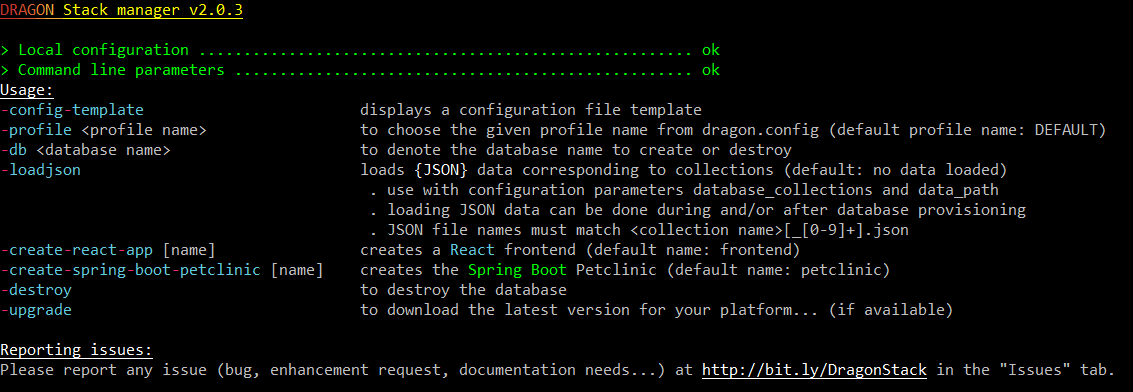
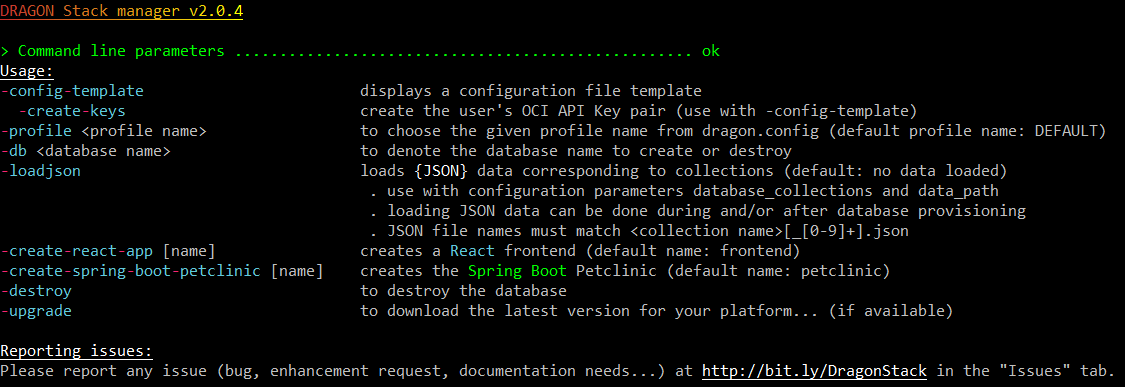
version 2.0.4

diff --git a/src/main/java/com/oracle/dragon/util/KeysUtil.java b/src/main/java/com/oracle/dragon/util/KeysUtil.java
@@ -1,27 +1,29 @@
 package com.oracle.dragon.util;
 
 import com.oracle.dragon.model.Keys;
+import com.oracle.svm.core.annotate.AutomaticFeature;
 import org.bouncycastle.jce.provider.BouncyCastleProvider;
 import org.bouncycastle.openssl.jcajce.JcaPEMWriter;
 import org.bouncycastle.openssl.jcajce.JcePEMEncryptorBuilder;
+import org.graalvm.nativeimage.hosted.Feature;
+import org.graalvm.nativeimage.hosted.RuntimeClassInitialization;
 
-import javax.crypto.*;
-import javax.crypto.spec.PBEKeySpec;
-import javax.crypto.spec.PBEParameterSpec;
 import java.io.*;
 import java.nio.charset.StandardCharsets;
 import java.security.*;
-import java.security.spec.InvalidKeySpecException;
-import java.security.spec.InvalidParameterSpecException;
 import java.security.spec.RSAKeyGenParameterSpec;
 import java.util.Base64;
-import java.util.Random;
 
-public final class KeysUtil {
-    public static Keys createKeys(final String passPhrase) throws Exception {
+@AutomaticFeature
+public final class KeysUtil implements Feature {
+    @Override
+    public void afterRegistration(AfterRegistrationAccess access) {
+        RuntimeClassInitialization.initializeAtBuildTime("org.bouncycastle");
         // see https://www.bouncycastle.org/fips-java/BCFipsIn100.pdf
         Security.addProvider(new BouncyCastleProvider());
+    }
 
+    public Keys createKeys(final String passPhrase) throws Exception {
         final KeyPairGenerator kpg = KeyPairGenerator.getInstance("RSA", "BC");
         kpg.initialize(new RSAKeyGenParameterSpec(2048, RSAKeyGenParameterSpec.F4));
         final KeyPair kp = kpg.generateKeyPair();
@@ -94,37 +96,4 @@ public final class KeysUtil {
 
         return s.toString();
     }
-
-    private static byte[] encryptWithPassPhrase(byte[] encodedprivkey, String passPhrase) throws NoSuchAlgorithmException, InvalidKeySpecException, NoSuchPaddingException, InvalidAlgorithmParameterException, InvalidKeyException, BadPaddingException, IllegalBlockSizeException, InvalidParameterSpecException, IOException {
-        // We must use a PasswordBasedEncryption algorithm in order to encrypt the private key, you may use any common algorithm supported by openssl, you can check them in the openssl documentation http://www.openssl.org/docs/apps/pkcs8.html
-        String MYPBEALG = "PBEWithSHA1AndDESede";
-
-        final int count = 10000 + new Random().nextInt(1000);// hash iteration count
-        final SecureRandom random = new SecureRandom();
-        final byte[] salt = new byte[8];
-        random.nextBytes(salt);
-
-        // Create PBE parameter set
-        final PBEParameterSpec pbeParamSpec = new PBEParameterSpec(salt, count);
-        final PBEKeySpec pbeKeySpec = new PBEKeySpec(passPhrase.toCharArray());
-        final SecretKeyFactory keyFac = SecretKeyFactory.getInstance(MYPBEALG);
-        final SecretKey pbeKey = keyFac.generateSecret(pbeKeySpec);
-
-        final Cipher pbeCipher = Cipher.getInstance(MYPBEALG);
-
-        // Initialize PBE Cipher with key and parameters
-        pbeCipher.init(Cipher.ENCRYPT_MODE, pbeKey, pbeParamSpec);
-
-        // Encrypt the encoded Private Key with the PBE key
-        byte[] ciphertext = pbeCipher.doFinal(encodedprivkey);
-
-        // Now construct  PKCS #8 EncryptedPrivateKeyInfo object
-        AlgorithmParameters algparms = AlgorithmParameters.getInstance(MYPBEALG);
-        algparms.init(pbeParamSpec);
-        EncryptedPrivateKeyInfo encinfo = new EncryptedPrivateKeyInfo(algparms, ciphertext);
-
-        // and here we have it! a DER encoded PKCS#8 encrypted key!
-        return encinfo.getEncoded();
-    }
-
 }

diff --git a/src/main/java/com/oracle/dragon/util/Console.java b/src/main/java/com/oracle/dragon/util/Console.java
@@ -1,6 +1,5 @@
 package com.oracle.dragon.util;
 
-import java.awt.*;
 import java.time.Duration;
 
 /**
@@ -13,6 +12,16 @@ public class Console {
     public static boolean ENABLE_COLORS = true;
 
     public final static int MAX_COLUMNS = 80;
+
+    public static class Color {
+        public final int r,g,b;
+
+        public Color(int r, int g, int b) {
+            this.r = r;
+            this.g = g;
+            this.b = b;
+        }
+    }
 
     // https://docs.microsoft.com/en-us/windows/console/console-virtual-terminal-sequences#screen-colors
     public enum Style {
@@ -129,21 +138,21 @@ public class Console {
 
         final int length = msg.length();
 
-        int r = from.getRed();
-        int g = from.getGreen();
-        int b = from.getBlue();
+        int r = from.r;
+        int g = from.g;
+        int b = from.b;
 
         double rd = r;
         double gd = g;
         double bd = b;
 
-        final double rInc = (to.getRed() - from.getRed()) / (double)length;
-        final double gInc = (to.getGreen() - from.getGreen()) / (double)length;
-        final double bInc = (to.getBlue() - from.getBlue()) / (double)length;
+        final double rInc = (to.r - from.r) / (double)length;
+        final double gInc = (to.g - from.g) / (double)length;
+        final double bInc = (to.b - from.b) / (double)length;
 
         for (int i = 0; i < length; i++) {
             if (i == length - 1) {
-                s.append(String.format("\u001B[38;2;%d;%d;%dm", to.getRed(), to.getGreen(), to.getBlue()));
+                s.append(String.format("\u001B[38;2;%d;%d;%dm", to.r, to.g, to.b));
             } else {
                 s.append(String.format("\u001B[38;2;%d;%d;%dm", r, g, b));
                 rd += rInc;

diff --git a/src/main/java/com/oracle/dragon/util/DSSession.java b/src/main/java/com/oracle/dragon/util/DSSession.java
@@ -37,7 +37,6 @@ import com.oracle.dragon.stacks.CodeGenerator;
 import com.oracle.dragon.stacks.StackType;
 import com.oracle.dragon.util.exception.*;
 
-import java.awt.*;
 import java.io.*;
 import java.net.*;
 import java.net.http.HttpClient;
@@ -243,7 +242,7 @@ public class DSSession {
 
     private static void banner() {
         if (ENABLE_COLORS && platform == Platform.Windows && !vscode) {
-            printGradient(new Color(199,52,46), Color.yellow, String.format("DRAGON Stack manager v%s", VERSION), true, true);
+            printGradient(new Console.Color(199,52,46), new Console.Color(255,255,0), String.format("DRAGON Stack manager v%s", VERSION), true, true);
         } else {
             print(String.format("%sDRAGON Stack manager v%s", Style.ANSI_TITLE, VERSION));
         }
@@ -423,7 +422,7 @@ public class DSSession {
             section.print("pending");
 
             try {
-                keys = KeysUtil.createKeys(passPhrase);
+                keys = new KeysUtil().createKeys(passPhrase);
                 section.printlnOK("Upload the Public Key");
                 println("Please upload this " + ANSI_YELLOW + "public" + ANSI_RESET + " key to your Oracle Cloud Infrastructure user's API Keys:");
                 println();

diff --git a/README.md b/README.md
@@ -7,7 +7,7 @@
 
 __... in 5 minutes.__
 
-![](./www/react-logo.png) ![](./www/spring-boot-logo.png) ![](./www/adb-logo.png) ![](./www/graalvm-logo.png) ![](./www/ords-logo.png) ![](./www/nodejs-logo.png) ![](./www/maven-logo.png)
+![](./www/react-logo.png) ![](./www/spring-boot-logo.png) ![](./www/adb-logo.png) ![](./www/graalvm-logo.png) ![](./www/ords-logo.png) ![](./www/nodejs-logo.png)
 
 # 30 seconds installation steps
 
@@ -20,21 +20,21 @@ __... in 5 minutes.__
 [![DRAGON Stack - React Frontend / Autonomous Backend](https://img.youtube.com/vi/X-10r-zji9E/0.jpg)](https://www.youtube.com/watch?v=X-10r-zji9E)
 
 ## Download
-The latest stable release is v2.0.3.
+The latest stable release is v2.0.4.
 
 ### Linux and [Oracle Cloud Infrastructure Cloud Shell](https://docs.cloud.oracle.com/en-us/iaas/Content/API/Concepts/cloudshellintro.htm):
 ```
-rm -f ./dragon-linux-x86_64-2.0.3
-wget https://github.com/loiclefevre/dragon/releases/download/v2.0.3/dragon-linux-x86_64-2.0.3
+rm -f ./dragon-linux-x86_64-2.0.4
+wget https://github.com/loiclefevre/dragon/releases/download/v2.0.4/dragon-linux-x86_64-2.0.4
 chmod +x dragon-linux-*
 ```
 ### Windows:
 ```
-powershell wget https://github.com/loiclefevre/dragon/releases/download/v2.0.3/dragon-windows-x86_64-2.0.3.exe -OutFile dragon-windows-x86_64-2.0.3.exe
+powershell wget https://github.com/loiclefevre/dragon/releases/download/v2.0.4/dragon-windows-x86_64-2.0.4.exe -OutFile dragon-windows-x86_64-2.0.4.exe
 ```
 ### MAC OS:
 ```
-curl -L -O https://github.com/loiclefevre/dragon/releases/download/v2.0.3/dragon-osx-x86_64-2.0.3
+curl -L -O https://github.com/loiclefevre/dragon/releases/download/v2.0.4/dragon-osx-x86_64-2.0.4
 chmod +x dragon-osx-*
 ```
 
@@ -125,32 +125,32 @@ Example from OCI Cloud Shell (Linux):
 
 Linux and OCI Cloud Shell:
 ```
-$ ./dragon-linux-x86_64-2.0.3
+$ ./dragon-linux-x86_64-2.0.4
 ```
 
 To load JSON data as well as provisioning (Linux and OCI Cloud Shell):
 ```
-$ ./dragon-linux-x86_64-2.0.3 -loadjson
+$ ./dragon-linux-x86_64-2.0.4 -loadjson
 ```
 
 To load JSON data as well as provisioning and finally create a React application (Linux and OCI Cloud Shell):
 ```
-$ ./dragon-linux-x86_64-2.0.3 -loadjson -create-react-app myfrontend
+$ ./dragon-linux-x86_64-2.0.4 -loadjson -create-react-app myfrontend
 ```
 
 Windows:
 ```
-> dragon-windows-x86_64-2.0.3.exe
+> dragon-windows-x86_64-2.0.4.exe
 ```
 
 MAC OS:
 ```
-$ ./dragon-osx-x86_64-2.0.3
+$ ./dragon-osx-x86_64-2.0.4
 ```
 
 To destroy your database (Linux and OCI Cloud Shell):
 ```
-$ ./dragon-linux-x86_64-2.0.3 -destroy
+$ ./dragon-linux-x86_64-2.0.4 -destroy
 ```
 
 ## Stacks
